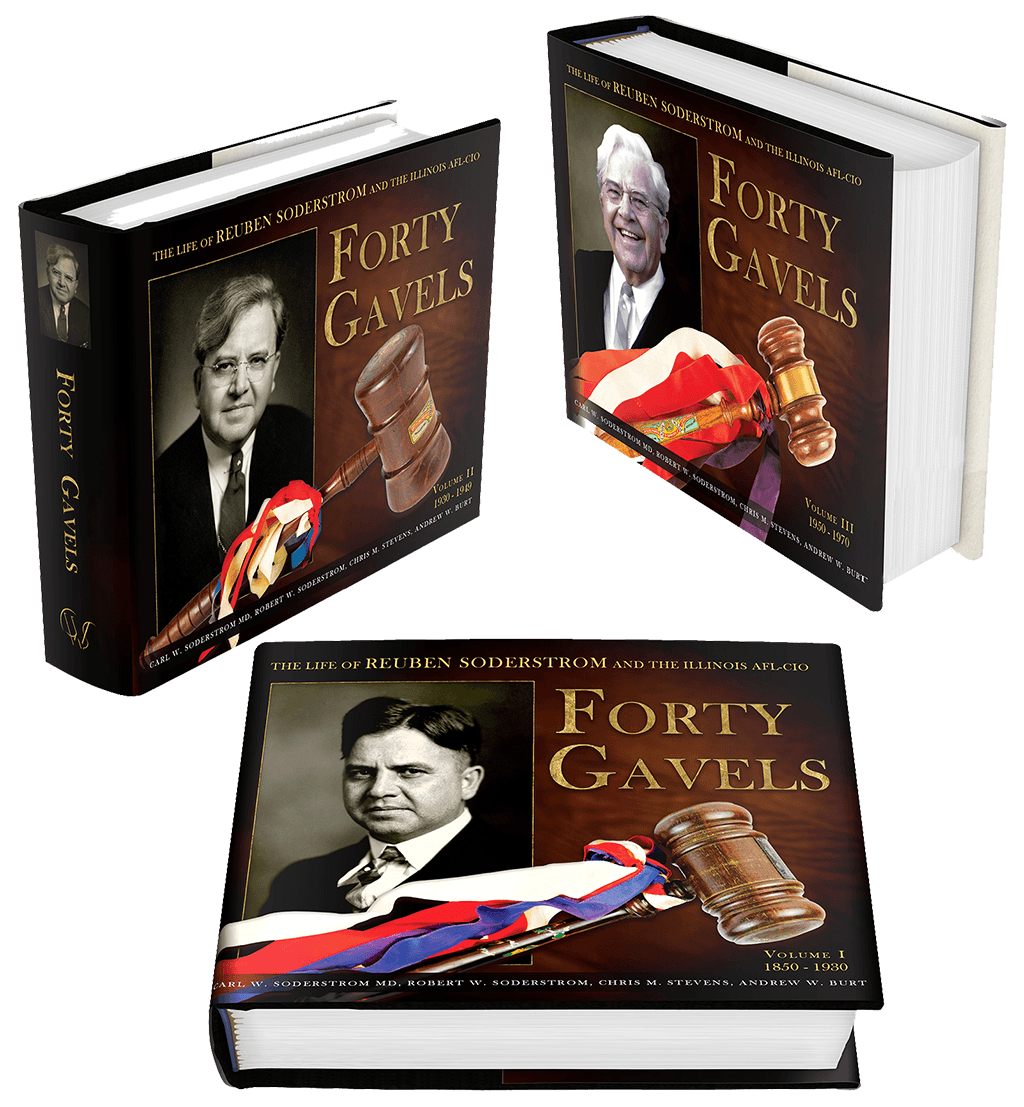
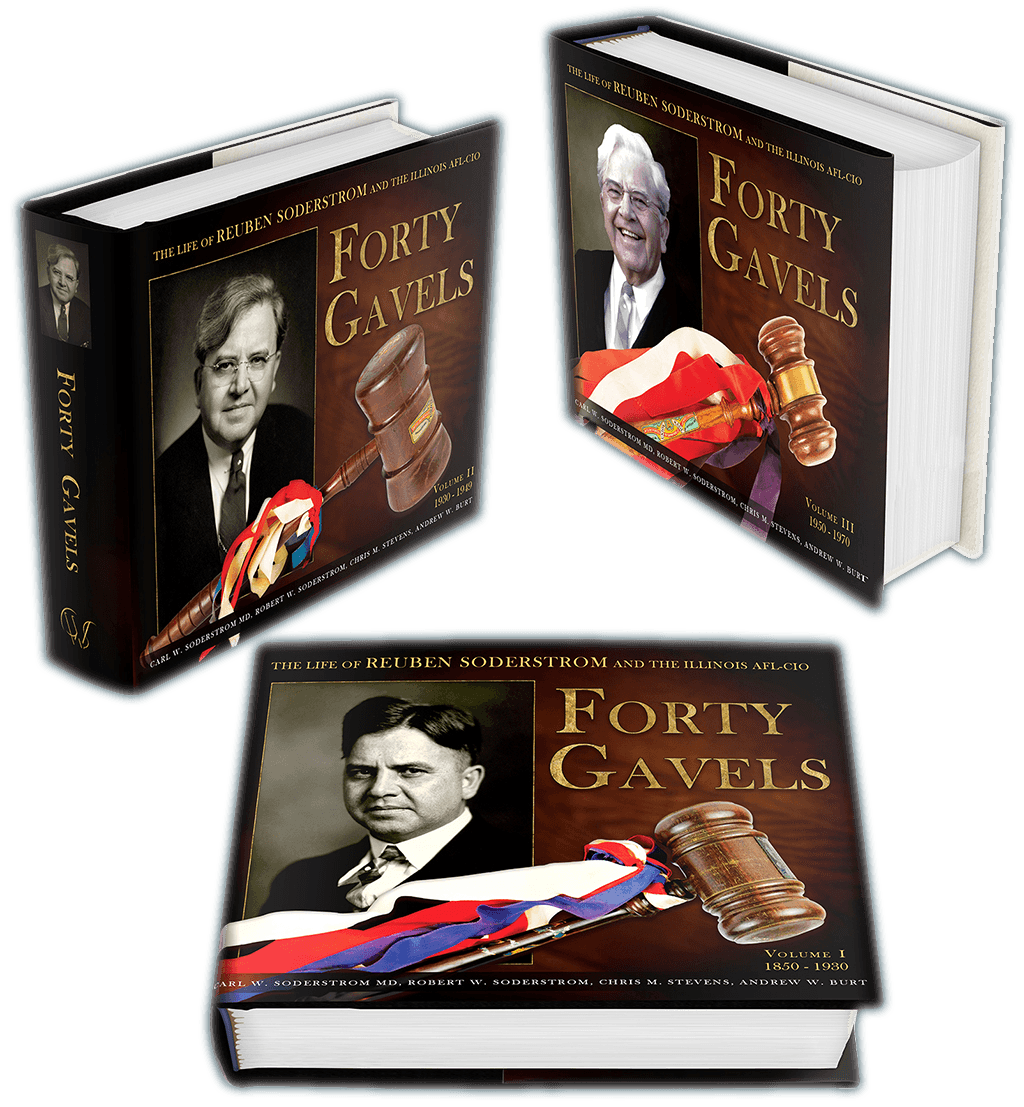
mobile change
picture size reduced

diff --git a/index.html b/index.html
@@ -172,7 +172,7 @@
         </div>
     </div>
     <div class="hero-img-mobile">
-      <img class="mobile-hero" src="img/books-portrait.png" alt="books">
+      <img class="mobile-hero" src="img/hero-portrait.png" alt="books">
     </div>
     <div class="hero-container">
       <div class="hero-content">
